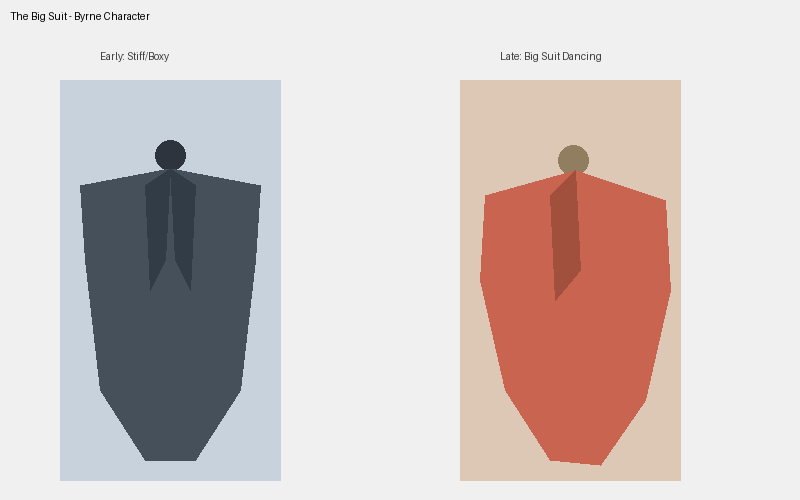
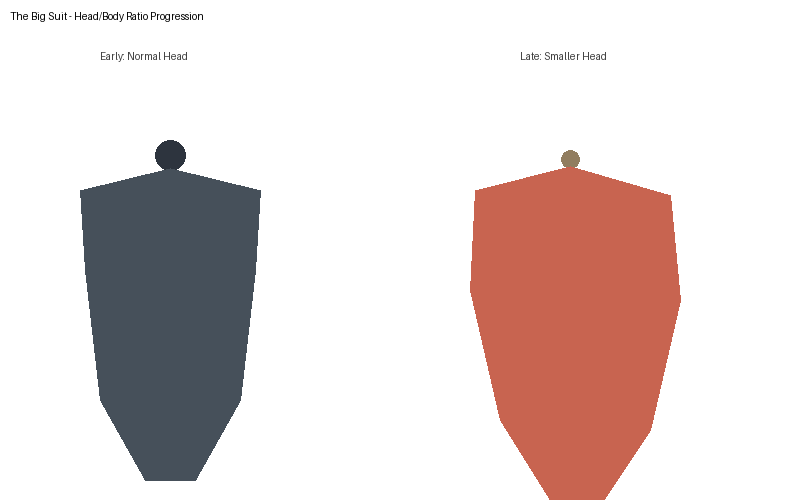
Refocus style guide on head/body ratio and polygon expressiveness
Major changes:
- Byrne big suit: Actually shrink late Byrne's head to show progression
- Remove rigid/flowing suit fixation and arm/jacket details
- Focus on head-to-body ratio as key technique for depicting Byrne
- Emphasize polygon shape expressiveness for conveying posture
- Remove card-shaped containers from figure examples
- Convert suit examples to landscape vibe boards (1000x400)
- Include suit symbols in each vibe board
- Update HTML to reflect new design philosophy

diff --git a/tarot/decks/byrne/visuals/style_guide.html b/tarot/decks/byrne/visuals/style_guide.html
@@ -281,7 +281,8 @@
 
         <h3>The Big Suit - Byrne as Character</h3>
         <img src="byrne_big_suit.png" alt="Byrne Big Suit">
-        <p>When Byrne appears as a character, the oversized boxy jacket is the key identifier. Early cards show it stiff and angular; late cards show it flowing and dynamic.</p>
+        <p>When Byrne appears as a character, the oversized boxy jacket is the key identifier. <strong>Purpose:</strong> The big suit makes the head smaller relative to the body—representing escape from cognitive prison (less head dominance, more embodied presence).</p>
+        <p><strong>Key technique:</strong> As Byrne progresses through the deck, the head gets smaller and/or the suit polygon gets bigger, changing the head-to-body ratio. The polygon shape itself conveys posture and movement—boxy and upright (early) to dynamic and expressive (late).</p>
 
         <h3>Crowds and Groups</h3>
         <img src="crowd_examples.png" alt="Crowd Examples">

diff --git a/tarot/decks/byrne/visuals/generate_style_guide.py b/tarot/decks/byrne/visuals/generate_style_guide.py
@@ -75,77 +75,85 @@ def generate_major_arcana_progression():
     return img
 
 
+def generate_suit_vibe_board(suit_name, palette):
+    """Generate a landscape-oriented vibe board for a suit (includes symbol)"""
+    width = 1000
+    height = 400
+    img = Image.new('RGB', (width, height), palette.get('primary', (255, 255, 255)))
+    draw = ImageDraw.Draw(img)
+
+    if suit_name == 'structures':
+        # Grid pattern background
+        bvt.draw_grid_pattern(draw, (50, 50, width - 50, height - 50),
+                              40, palette['grid'])
+
+        # Geometric buildings across the landscape
+        bvt.example_building(img, 100, 100, 120, 220, palette)
+        bvt.example_building(img, 280, 140, 110, 200, palette)
+        bvt.example_building(img, 520, 80, 140, 240, palette)
+        bvt.example_building(img, 760, 120, 130, 210, palette)
+
+        # Suit symbol in upper right
+        symbol = bvt.render_suit_symbol_structures(96)
+        img.paste(symbol, (width - 130, 30), symbol if symbol.mode == 'RGBA' else None)
+
+    elif suit_name == 'rivers':
+        # Organic layered flow patterns
+        for i in range(6):
+            y_base = 80 + i * 50
+            wavelength = 70 + i * 15
+            amplitude = 25 - i * 3
+            bvt.draw_flow_pattern(draw, (30, y_base, width - 30, y_base + 40),
+                                  wavelength, amplitude, palette['flow'])
+
+        # Suit symbol in upper left
+        symbol = bvt.render_suit_symbol_rivers(96)
+        img.paste(symbol, (30, 30), symbol if symbol.mode == 'RGBA' else None)
+
+    elif suit_name == 'curiosity':
+        # Bright optimistic gradient
+        for y in range(height):
+            t = y / height
+            r = int(palette['secondary'][0] + (palette['primary'][0] - palette['secondary'][0]) * t)
+            g = int(palette['secondary'][1] + (palette['primary'][1] - palette['secondary'][1]) * t)
+            b = int(palette['secondary'][2] + (palette['primary'][2] - palette['secondary'][2]) * t)
+            draw.line([(0, y), (width, y)], fill=(r, g, b))
+
+        # Geometric shapes suggesting open dialogue spaces
+        draw.rectangle([120, 100, 240, 180], fill=palette['accent'])
+        draw.rectangle([300, 150, 420, 230], fill=palette['accent'])
+        draw.rectangle([500, 80, 620, 160], fill=palette['accent'])
+        draw.rectangle([680, 140, 800, 220], fill=palette['accent'])
+
+        # Suit symbol centered at top
+        symbol = bvt.render_suit_symbol_curiosity(128)
+        img.paste(symbol, (width // 2 - 64, 20), symbol if symbol.mode == 'RGBA' else None)
+
+    elif suit_name == 'dance':
+        # Radial energy from center
+        bvt.radial_gradient(draw, width // 2, height // 2, 300,
+                            palette['heat'], palette['shadow'])
+
+        # Figures in motion at various positions
+        bvt.example_figure_simple(img, 250, height - 60, palette, posture='moving', scale=1.0)
+        bvt.example_figure_simple(img, 500, height - 70, palette, posture='moving', scale=1.3)
+        bvt.example_figure_simple(img, 750, height - 55, palette, posture='moving', scale=0.9)
+
+        # Suit symbol in upper right
+        symbol = bvt.render_suit_symbol_dance(96)
+        img.paste(symbol, (width - 130, 30), symbol if symbol.mode == 'RGBA' else None)
+
+    return img
+
+
 def generate_suit_examples():
-    """Generate example scenes for each suit"""
+    """Generate vibe board examples for each suit"""
     examples = {}
 
-    # STRUCTURES - geometric, architectural
-    canvas = bvt.create_canvas(bvt.SuitColors.STRUCTURES['primary'])
-    draw = ImageDraw.Draw(canvas)
-
-    # Grid background
-    bvt.draw_grid_pattern(draw, (40, 40, bvt.CARD_WIDTH - 40, bvt.CARD_HEIGHT - 40),
-                          30, bvt.SuitColors.STRUCTURES['grid'])
-
-    # A simple building
-    bvt.example_building(canvas, 80, 100, 120, 200, bvt.SuitColors.STRUCTURES)
-
-    # Frame
-    draw.rectangle([20, 20, bvt.CARD_WIDTH - 20, bvt.CARD_HEIGHT - 20],
-                   outline=bvt.SuitColors.STRUCTURES['frame'], width=3)
-
-    examples['structures'] = canvas
-
-    # RIVERS - organic, flowing
-    canvas = bvt.create_canvas(bvt.SuitColors.RIVERS['primary'])
-    draw = ImageDraw.Draw(canvas)
-
-    # Flow patterns
-    for i in range(5):
-        y_offset = i * 80
-        bvt.draw_flow_pattern(draw,
-                              (20, 40 + y_offset, bvt.CARD_WIDTH - 20, 80 + y_offset),
-                              60 + i * 10, 15 - i * 2,
-                              bvt.SuitColors.RIVERS['flow'])
-
-    examples['rivers'] = canvas
-
-    # CURIOSITY - bright, open, conversational
-    canvas = bvt.create_canvas(bvt.SuitColors.CURIOSITY['dialogue'])
-    draw = ImageDraw.Draw(canvas)
-
-    # Bright optimistic gradient
-    for y in range(bvt.CARD_HEIGHT):
-        t = y / bvt.CARD_HEIGHT
-        r = int(bvt.SuitColors.CURIOSITY['secondary'][0] +
-                (bvt.SuitColors.CURIOSITY['primary'][0] - bvt.SuitColors.CURIOSITY['secondary'][0]) * t)
-        g = int(bvt.SuitColors.CURIOSITY['secondary'][1] +
-                (bvt.SuitColors.CURIOSITY['primary'][1] - bvt.SuitColors.CURIOSITY['secondary'][1]) * t)
-        b = int(bvt.SuitColors.CURIOSITY['secondary'][2] +
-                (bvt.SuitColors.CURIOSITY['primary'][2] - bvt.SuitColors.CURIOSITY['secondary'][2]) * t)
-        draw.line([(0, y), (bvt.CARD_WIDTH, y)], fill=(r, g, b))
-
-    # Some geometric shapes suggesting dialogue/open space
-    draw.rectangle([40, 80, 120, 140], fill=bvt.SuitColors.CURIOSITY['accent'])
-    draw.rectangle([160, 120, 240, 180], fill=bvt.SuitColors.CURIOSITY['accent'])
-    draw.rectangle([80, 200, 200, 260], fill=bvt.SuitColors.CURIOSITY['accent'])
-
-    examples['curiosity'] = canvas
-
-    # DANCE - warm, dynamic, embodied
-    canvas = bvt.create_canvas(bvt.SuitColors.DANCE['shadow'])
-    draw = ImageDraw.Draw(canvas)
-
-    # Radial energy bursts
-    bvt.radial_gradient(draw, bvt.CARD_WIDTH // 2, bvt.CARD_HEIGHT // 2, 180,
-                        bvt.SuitColors.DANCE['heat'],
-                        bvt.SuitColors.DANCE['shadow'])
-
-    # A figure in motion
-    bvt.example_figure_simple(canvas, bvt.CARD_WIDTH // 2, bvt.CARD_HEIGHT - 60,
-                              bvt.SuitColors.DANCE, posture='moving', scale=1.2)
-
-    examples['dance'] = canvas
+    examples['structures'] = generate_suit_vibe_board('structures', bvt.SuitColors.STRUCTURES)
+    examples['rivers'] = generate_suit_vibe_board('rivers', bvt.SuitColors.RIVERS)
+    examples['curiosity'] = generate_suit_vibe_board('curiosity', bvt.SuitColors.CURIOSITY)
+    examples['dance'] = generate_suit_vibe_board('dance', bvt.SuitColors.DANCE)
 
     return examples
 
@@ -154,7 +162,7 @@ def generate_figure_postures():
     """Show various postures"""
     width = 1200
     height = 420
-    img = Image.new('RGB', (width, height), (240, 240, 240))
+    img = Image.new('RGB', (width, height), (255, 255, 255))
     draw = ImageDraw.Draw(img)
 
     draw.text((10, 10), "Posture Variations", fill=(0, 0, 0))
@@ -163,10 +171,7 @@ def generate_figure_postures():
     for i, posture in enumerate(postures):
         x = 150 + i * 280
 
-        # Background
-        draw.rectangle([x - 100, 50, x + 100, 400], fill=(200, 210, 220))
-
-        # Figure
+        # Figure (no background container)
         bvt.example_figure_simple(img, x, 380, bvt.MajorArcanaColors.EARLY,
                                   posture=posture, scale=1.3)
 
@@ -180,26 +185,23 @@ def generate_figure_scales():
     """Show scale/distance variations"""
     width = 1000
     height = 420
-    img = Image.new('RGB', (width, height), (240, 240, 240))
+    img = Image.new('RGB', (width, height), (255, 255, 255))
     draw = ImageDraw.Draw(img)
 
     draw.text((10, 10), "Scale Variations (distance/presence)", fill=(0, 0, 0))
 
     # Small/distant figure (observed)
     draw.text((80, 50), "Distant/Observed", fill=(60, 60, 60))
-    draw.rectangle([50, 80, 250, 400], fill=(200, 210, 220))
     bvt.example_figure_simple(img, 150, 380, bvt.MajorArcanaColors.EARLY,
                               posture='neutral', scale=0.5)
 
     # Medium figure
     draw.text((380, 50), "Medium", fill=(60, 60, 60))
-    draw.rectangle([320, 80, 520, 400], fill=(200, 210, 220))
     bvt.example_figure_simple(img, 420, 380, bvt.MajorArcanaColors.MIDDLE,
                               posture='neutral', scale=1.0)
 
     # Large/present figure
     draw.text((680, 50), "Present/Engaged", fill=(60, 60, 60))
-    draw.rectangle([600, 80, 900, 400], fill=(200, 210, 220))
     bvt.example_figure_simple(img, 750, 380, bvt.MajorArcanaColors.LATE,
                               posture='moving', scale=1.8)
 
@@ -207,83 +209,61 @@ def generate_figure_scales():
 
 
 def generate_byrne_big_suit():
-    """Show the Big Suit Byrne character - using same no-legs approach"""
+    """Show Byrne with the Big Suit - focus on head/body ratio and polygon expressiveness"""
     width = 800
     height = 500
-    img = Image.new('RGB', (width, height), (240, 240, 240))
+    img = Image.new('RGB', (width, height), (255, 255, 255))
     draw = ImageDraw.Draw(img)
 
-    draw.text((10, 10), "The Big Suit - Byrne Character", fill=(0, 0, 0))
+    draw.text((10, 10), "The Big Suit - Head/Body Ratio Progression", fill=(0, 0, 0))
 
-    # Early Byrne (stiff, boxy, upright)
-    draw.text((100, 50), "Early: Stiff/Boxy", fill=(60, 60, 60))
-    draw.rectangle([60, 80, 280, 480], fill=(200, 210, 220))
+    # Early Byrne - normal head, big suit
+    draw.text((100, 50), "Early: Normal Head", fill=(60, 60, 60))
 
     head_x, head_y = 170, 140
 
-    # Head
+    # Head (normal size)
     draw.ellipse([head_x-15, head_y, head_x+15, head_y+30],
                  fill=bvt.MajorArcanaColors.EARLY['secondary'])
 
-    # The BIG SUIT - massively oversized boxy jacket polygon
-    # No separate legs - the jacket polygon tapers to suggest legs inside
+    # Big suit polygon - massively oversized, boxy shape
     jacket_color = (70, 80, 90)
     big_suit_shape = [
         (head_x, head_y+28),           # neck
-        (head_x-90, head_y+45),        # left shoulder (HUGE)
-        (head_x-85, head_y+120),       # left mid-jacket
-        (head_x-70, head_y+250),       # left lower jacket
-        (head_x-25, head_y+320),       # left foot area
-        (head_x+25, head_y+320),       # right foot area
-        (head_x+70, head_y+250),       # right lower jacket
-        (head_x+85, head_y+120),       # right mid-jacket
-        (head_x+90, head_y+45),        # right shoulder (HUGE)
+        (head_x-90, head_y+50),        # left shoulder (HUGE)
+        (head_x-85, head_y+130),       # left mid
+        (head_x-70, head_y+260),       # left lower
+        (head_x-25, head_y+340),       # left foot area
+        (head_x+25, head_y+340),       # right foot area
+        (head_x+70, head_y+260),       # right lower
+        (head_x+85, head_y+130),       # right mid
+        (head_x+90, head_y+50),        # right shoulder (HUGE)
     ]
     draw.polygon(big_suit_shape, fill=jacket_color)
 
-    # Lapels (darker for depth)
-    lapel_color = (50, 60, 70)
-    draw.polygon([
-        (head_x, head_y+28), (head_x-25, head_y+45),
-        (head_x-20, head_y+150), (head_x-5, head_y+120)
-    ], fill=lapel_color)
-    draw.polygon([
-        (head_x, head_y+28), (head_x+25, head_y+45),
-        (head_x+20, head_y+150), (head_x+5, head_y+120)
-    ], fill=lapel_color)
+    # Late Byrne - SMALLER head, even bigger suit, expressive posture
+    draw.text((520, 50), "Late: Smaller Head", fill=(60, 60, 60))
 
-    # Late Byrne (still big, but with flow and tilt)
-    draw.text((500, 50), "Late: Big Suit Dancing", fill=(60, 60, 60))
-    draw.rectangle([460, 80, 680, 480], fill=(220, 200, 180))
+    head_x, head_y = 570, 150
 
-    head_x, head_y = 570, 140
-
-    # Head (tilted for motion)
-    draw.ellipse([head_x-12, head_y+5, head_x+18, head_y+35],
+    # Head (SMALLER - escaping cognitive prison)
+    draw.ellipse([head_x-9, head_y, head_x+9, head_y+18],
                  fill=bvt.MajorArcanaColors.LATE['secondary'])
 
-    # The BIG SUIT in motion - still huge, but tilted and dynamic
-    # Arms INSIDE jacket - the whole jacket shape shows movement
+    # Even bigger suit with dynamic expressive polygon shape
     jacket_color = (200, 100, 80)
-    moving_suit_shape = [
-        (head_x+5, head_y+30),         # neck (tilted)
-        (head_x-85, head_y+55),        # left shoulder/arm (back extended)
-        (head_x-90, head_y+140),       # left arm extended
-        (head_x-65, head_y+250),       # left lower
-        (head_x-20, head_y+320),       # left foot
-        (head_x+30, head_y+325),       # right foot (forward)
-        (head_x+75, head_y+260),       # right lower (forward)
-        (head_x+100, head_y+150),      # right arm extended forward
-        (head_x+95, head_y+60),        # right shoulder (forward)
+    expressive_suit_shape = [
+        (head_x, head_y+16),           # neck
+        (head_x-95, head_y+40),        # left shoulder (EVEN BIGGER)
+        (head_x-100, head_y+140),      # left extended
+        (head_x-70, head_y+270),       # left lower
+        (head_x-20, head_y+350),       # left foot
+        (head_x+30, head_y+355),       # right foot (asymmetric)
+        (head_x+80, head_y+280),       # right lower (forward)
+        (head_x+110, head_y+150),      # right extended forward
+        (head_x+100, head_y+45),       # right shoulder
     ]
-    draw.polygon(moving_suit_shape, fill=jacket_color)
-
-    # Lapel showing tilt
-    lapel_color = (160, 80, 60)
-    draw.polygon([
-        (head_x+5, head_y+30), (head_x-20, head_y+55),
-        (head_x-15, head_y+160), (head_x+10, head_y+130)
-    ], fill=lapel_color)
+    draw.polygon(expressive_suit_shape, fill=jacket_color)
 
     return img
 
@@ -825,7 +805,8 @@ def generate_html():
 
         <h3>The Big Suit - Byrne as Character</h3>
         <img src="byrne_big_suit.png" alt="Byrne Big Suit">
-        <p>When Byrne appears as a character, the oversized boxy jacket is the key identifier. Early cards show it stiff and angular; late cards show it flowing and dynamic.</p>
+        <p>When Byrne appears as a character, the oversized boxy jacket is the key identifier. <strong>Purpose:</strong> The big suit makes the head smaller relative to the body—representing escape from cognitive prison (less head dominance, more embodied presence).</p>
+        <p><strong>Key technique:</strong> As Byrne progresses through the deck, the head gets smaller and/or the suit polygon gets bigger, changing the head-to-body ratio. The polygon shape itself conveys posture and movement—boxy and upright (early) to dynamic and expressive (late).</p>
 
         <h3>Crowds and Groups</h3>
         <img src="crowd_examples.png" alt="Crowd Examples">
